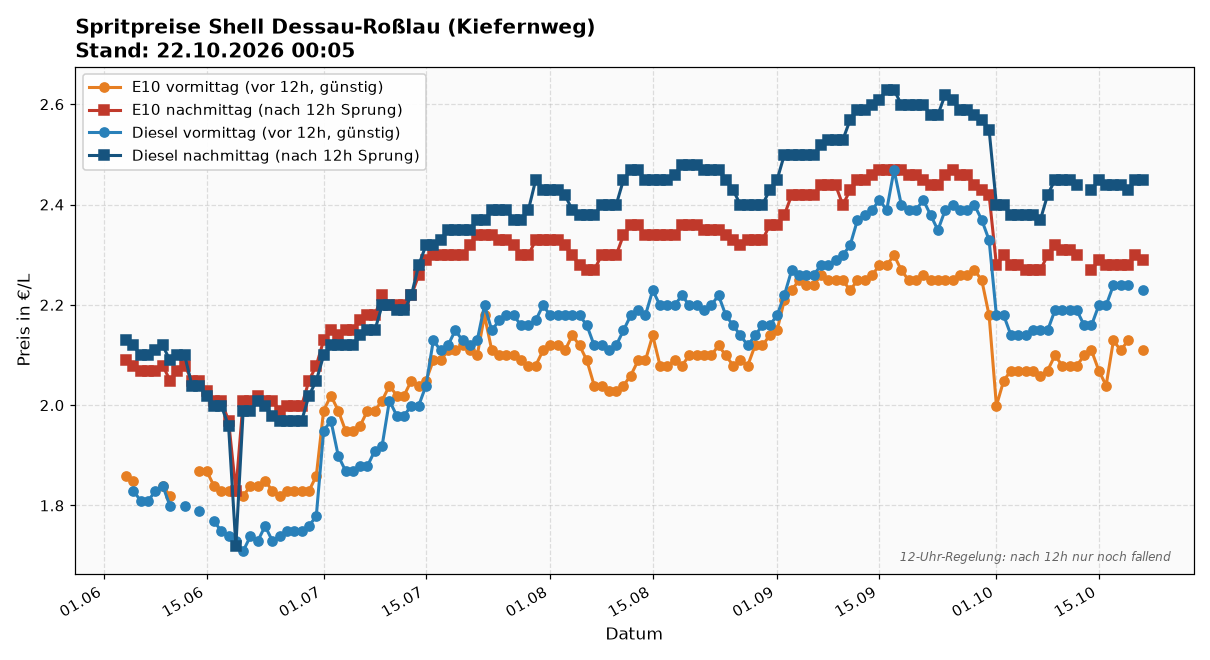
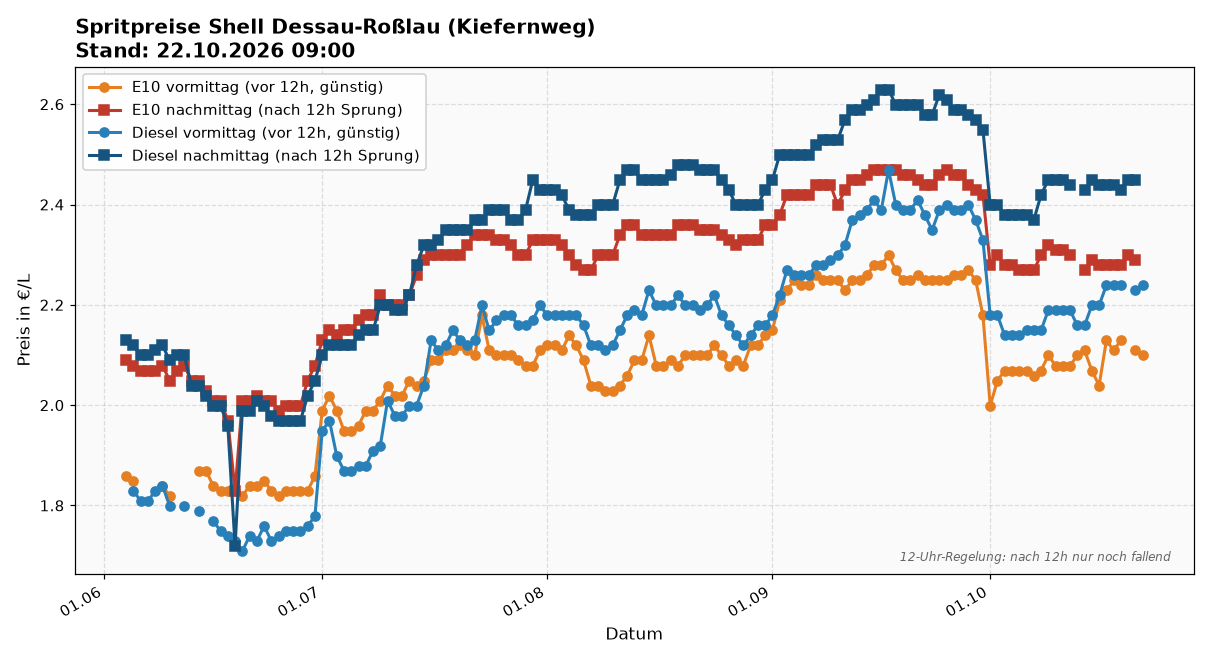
update: spritpreise 2026-10-22 09:00

diff --git a/index.html b/index.html
@@ -19,17 +19,17 @@
 </head>
 <body>
 <h1>🛢 Spritpreise Shell Dessau-Roßlau (Kiefernweg)</h1>
-<div class="sub">Source: Tankerkönig · Stand: 22.10.2026 00:05</div>
+<div class="sub">Source: Tankerkönig · Stand: 22.10.2026 09:00</div>
 
 <img src="latest.png" alt="Preisverlauf">
 
 <div class="latest">
   <strong>Heute (2026-10-22)</strong>
-  <div style="color:#888;font-style:italic;margin-bottom:0.5em;">Noch keine Messung heute — cron läuft 09:00 + 12:10.</div>
+  
   <table>
-    <tr><td>E10 vormittag</td><td class="price">— €</td></tr>
+    <tr><td>E10 vormittag</td><td class="price">2.099 €</td></tr>
     <tr><td>E10 nachmittag</td><td class="price">— €</td></tr>
-    <tr><td>Diesel vormittag</td><td class="price">— €</td></tr>
+    <tr><td>Diesel vormittag</td><td class="price">2.239 €</td></tr>
     <tr><td>Diesel nachmittag</td><td class="price">— €</td></tr>
   </table>
 </div>
